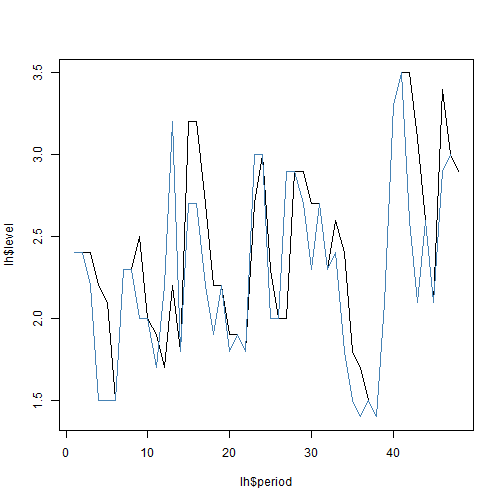
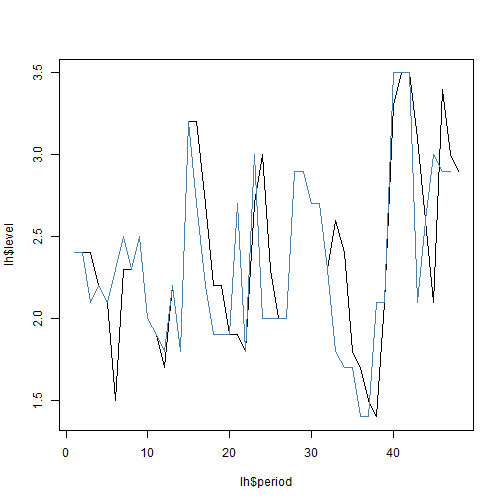
week 4 exercises

diff --git a/Week-4/EmilyRollinson_Week4.html b/Week-4/EmilyRollinson_Week4.html
@@ -197,15 +197,16 @@ hljs.initHighlightingOnLoad();
 Today&#39;s examples will focus on data of lutenizing hormone over time.  We will model this as an autoregressive model of period 1.
 \[ 
 AR(1): z_{t} = \beta z+{t-1} + \epsilon_{t}
- \]
-1) Look at a histogram of the level values (ignoring the time data).
-2) Find the value of \( \hat{b} \) as described in E&amp;T equation 8.20 using two methods:
-2a) Sample with replacement from the random deviations $\epsilon
-2b) Using the moving blocks method</p>
+ \]</p>
+
+<p>-Look at a histogram of the level values (ignoring the time data).
+-Find the value of \( \hat{b} \) as described in E&amp;T equation 8.20
+-Create new bootstrapped time series using the \( \hat{b} \) that we found.
+-An alternative: Using the moving blocks method</p>
 
 <h2>Examples from Efron and Tibshirani:</h2>
 
-<p><strong>(8.5 Lutenizing hormone)</strong></p>
+<p><strong>(8.5) Lutenizing hormone</strong></p>
 
 <p>This data set shows the levels of a lutenizing hormone for 48 consecutive 10-minute intervals in one woman.  These data are not a random sample from a distribution; they instead are an example of a time series (see the figure below). </p>
 
@@ -253,10 +254,8 @@ ggplot(lh, aes(period, c)) + geom_line(col = &quot;black&quot;) + theme_classic(
 <p>We expect that \( RSE(b) \) has expectation \( E(RSE(b)) \) and is minimized when \( b = \beta \).  We can calculate \( RSE(b) \) asa function of \( b \), and choose the value that minimizes this function to serve as our estimate of \( \beta \).  Remember that \( \beta \) varies between \( -1 \) and \( 1 \).</p>
 
 <pre><code class="r">Z = data.frame(t1 = c(lh$c[1:47]), t2 = c(lh$c[2:48]))
-optimize(f = )  #I&#39;m stuck on how to actually calculate the least-squares estimate of beta.
-</code></pre>
-
-<pre><code>## Error: &#39;interval&#39; is missing
+bvals &lt;- seq(-1, 1, by = 0.001)
+# not sure where to go from here
 </code></pre>
 
 <p>We can use bootstrap to see how accurate our estimate of \( \hat{\beta} \) is.  </p>
@@ -274,7 +273,7 @@ e = (Z$t2) - beta * (Z$t1)  #create the estimated value of espilon for each t
 <pre><code class="r">size = 3
 
 data = NULL
-for (i in 1:length(lh$level)) {
+for (i in 1:length(lh$level/size)) {
     block = lh$level[i:(i + (size - 1))]
     s = sample(block, 1)
     data = append(data, s)
@@ -285,7 +284,7 @@ plot(lh$period, lh$level, type = &quot;l&quot;)
 points(lh$period, data, type = &quot;l&quot;, col = &quot;steelblue&quot;)
 </code></pre>
 
[2 lines of base64/hex data omitted]
 
 <p>If we make the block size larger, we lose the pattern in the original time series:</p>
 
@@ -303,7 +302,7 @@ plot(lh$period, lh$level, type = &quot;l&quot;)
 points(lh$period, data2, type = &quot;l&quot;, col = &quot;steelblue&quot;)
 </code></pre>
 
[2 lines of base64/hex data omitted]
 
 <p><strong>(8.3) The two-sample problem</strong></p>
 
@@ -345,7 +344,7 @@ se &lt;- sqrt(sum((thetabs - theta)^2)/1399)
 <pre><code class="r">se
 </code></pre>
 
-<pre><code>## [1] 27.27
+<pre><code>## [1] 26.77
 </code></pre>
 
 <p>so \( \hat{\theta} \) is only</p>
@@ -353,7 +352,7 @@ se &lt;- sqrt(sum((thetabs - theta)^2)/1399)
 <pre><code class="r">mean(thetabs)/se
 </code></pre>
 
-<pre><code>## [1] 1.143
+<pre><code>## [1] 1.148
 </code></pre>
 
 <p>standard errors above zero.  </p>
@@ -366,7 +365,7 @@ ggplot(seplot, aes(SE)) + geom_histogram(fill = &quot;black&quot;, binwidth = 10
     geom_vline(xintercept = mean, col = &quot;steelblue&quot;)
 </code></pre>
 
[2 lines of base64/hex data omitted]
 
 </body>
 

diff --git a/Week-4/EmilyRollinson_Week4.md b/Week-4/EmilyRollinson_Week4.md
@@ -14,16 +14,17 @@ Today's examples will focus on data of lutenizing hormone over time.  We will mo
 $$
 AR(1): z_{t} = \beta z+{t-1} + \epsilon_{t}
 $$
-1) Look at a histogram of the level values (ignoring the time data).
-2) Find the value of $\hat{b}$ as described in E&T equation 8.20 using two methods:
-2a) Sample with replacement from the random deviations $\epsilon
-2b) Using the moving blocks method
+
+-Look at a histogram of the level values (ignoring the time data).
+-Find the value of $\hat{b}$ as described in E&T equation 8.20
+-Create new bootstrapped time series using the $\hat{b}$ that we found.
+-An alternative: Using the moving blocks method
 
 
 Examples from Efron and Tibshirani:
 ---------------------
 
-**(8.5 Lutenizing hormone)**
+**(8.5) Lutenizing hormone**
 
 This data set shows the levels of a lutenizing hormone for 48 consecutive 10-minute intervals in one woman.  These data are not a random sample from a distribution; they instead are an example of a time series (see the figure below). 
 
@@ -38,7 +39,6 @@ hist(lh$level)
 
 
 Looks pretty normal!  Which is rad, but unhelpful, because the data aren't IID - it's a time series.
-
 
 
 ```r
@@ -83,11 +83,8 @@ We expect that $RSE(b)$ has expectation $E(RSE(b))$ and is minimized when $b = \
 
 ```r
 Z = data.frame(t1 = c(lh$c[1:47]), t2 = c(lh$c[2:48]))
-optimize(f = )  #I'm stuck on how to actually calculate the least-squares estimate of beta.
-```
-
-```
-## Error: 'interval' is missing
+bvals <- seq(-1, 1, by = 0.001)
+# not sure where to go from here
 ```
 
 
@@ -112,7 +109,7 @@ This is a different approach to bootstrapping time series data that is closer to
 size = 3
 
 data = NULL
-for (i in 1:length(lh$level)) {
+for (i in 1:length(lh$level/size)) {
     block = lh$level[i:(i + (size - 1))]
     s = sample(block, 1)
     data = append(data, s)
@@ -200,7 +197,7 @@ se
 ```
 
 ```
-## [1] 27.27
+## [1] 26.77
 ```
 
 
@@ -212,7 +209,7 @@ mean(thetabs)/se
 ```
 
 ```
-## [1] 1.143
+## [1] 1.148
 ```
 
 
